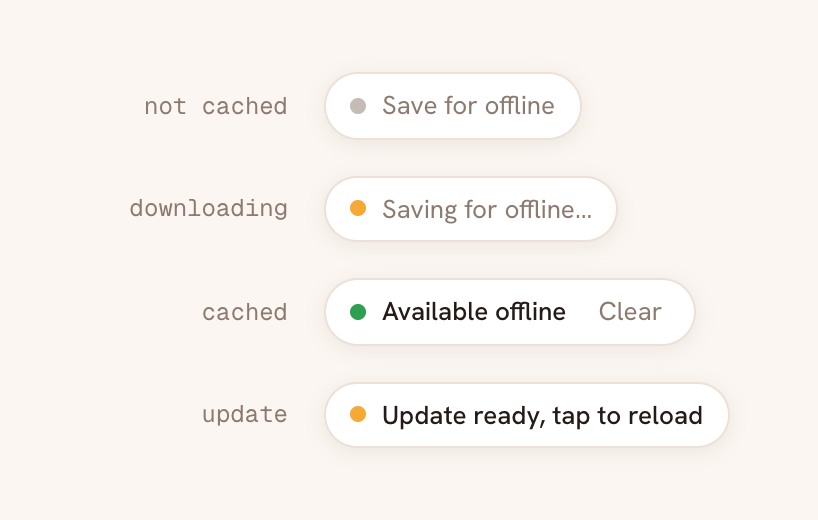
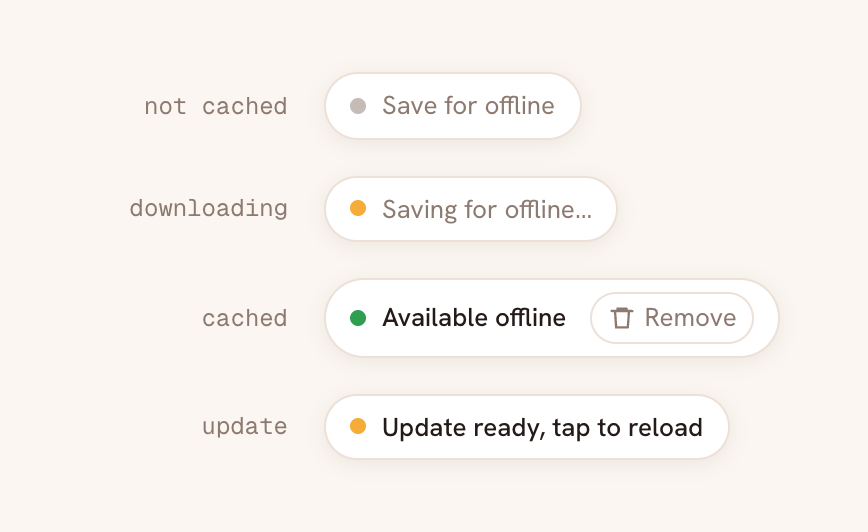
Document offline testing and refresh PWA screenshots
Add a section on testing the service worker via the production preview (it is
disabled in dev), including the offline check and a cloudflared tunnel for
phone testing. Update the pill-states image for the new Remove action and add a
shot of the offline + install controls.

diff --git a/README.md b/README.md
@@ -33,11 +33,37 @@ npm install
 npm run dev      # http://localhost:5173  (copies the ffmpeg core into public/ first)
 ```
 
-## Build & preview
+Note: the **service worker is disabled in dev** (`devOptions.enabled: false`), so the
+offline behavior and the "Available offline" pill do **not** work under `npm run dev`.
+Use the production preview below to test anything PWA related.
+
+## Build & preview (and how to test offline)
 
 ```bash
 npm run build    # type-checks, copies the core, bundles to dist/
+npm run preview  # serves the built app at http://localhost:4173 (service worker active)
+```
+
+To test offline support:
+
+1. Open http://localhost:4173 and convert a file once. The pill turns green
+   ("Available offline") as the ffmpeg core gets cached.
+2. In DevTools, go to **Network** and switch to **Offline** (or tick Offline under
+   **Application → Service Workers**), then reload. The app should still load and convert.
+3. **Clear** on the pill removes the cached core (~30MB) and the dot goes grey.
+
+Iterating gotcha: a service worker caches the previous build, so after re-running
+`npm run build`, tick **"Update on reload"** in DevTools → Application → Service Workers,
+or use **Clear site data**, to avoid serving stale files.
+
+### Testing install / on a phone
+
+`localhost` works for desktop, but installing the PWA or testing on a phone needs HTTPS.
+Either deploy it, or tunnel the preview to a temporary HTTPS URL:
+
+```bash
 npm run preview
+npx cloudflared tunnel --url http://localhost:4173   # open the https URL on your phone
 ```
 
 ## Deploy